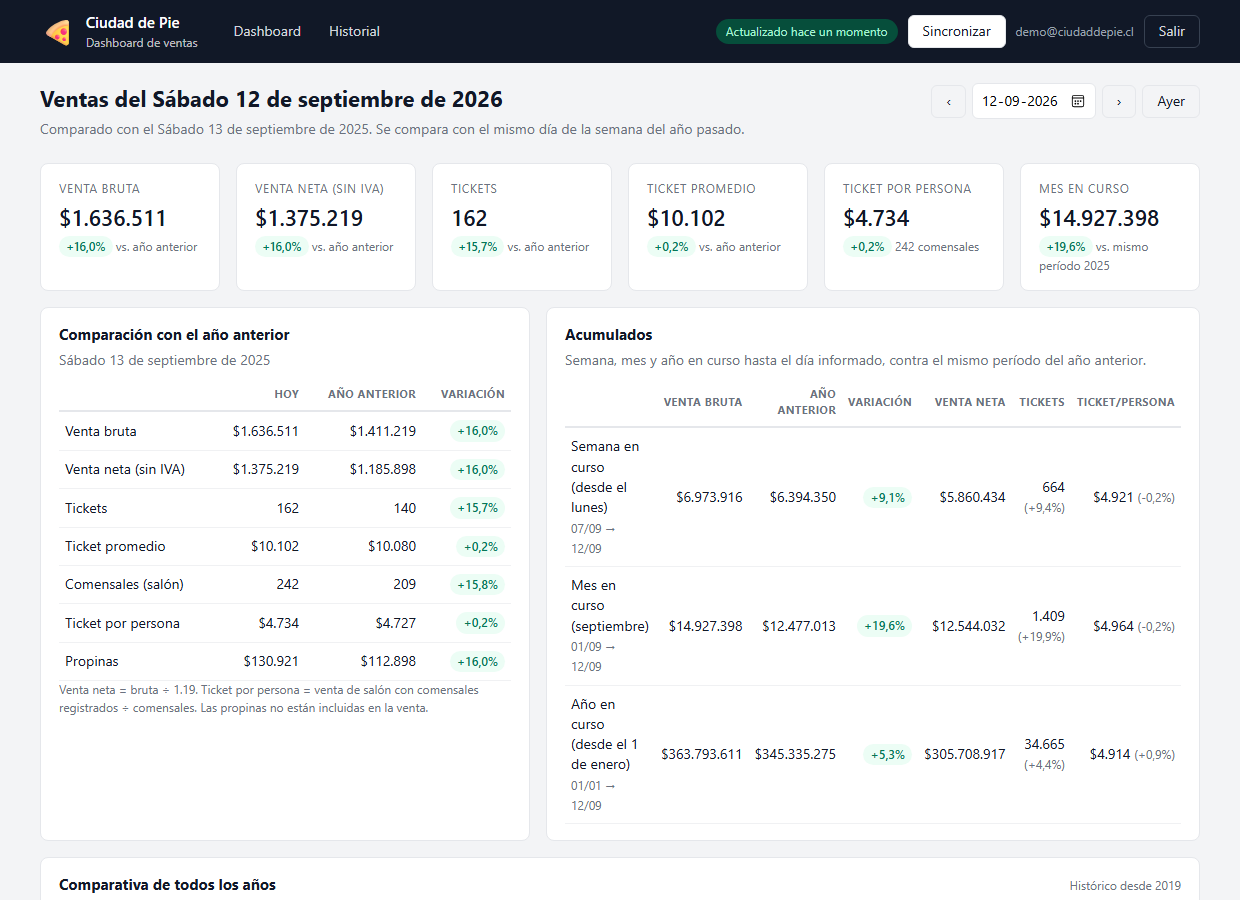
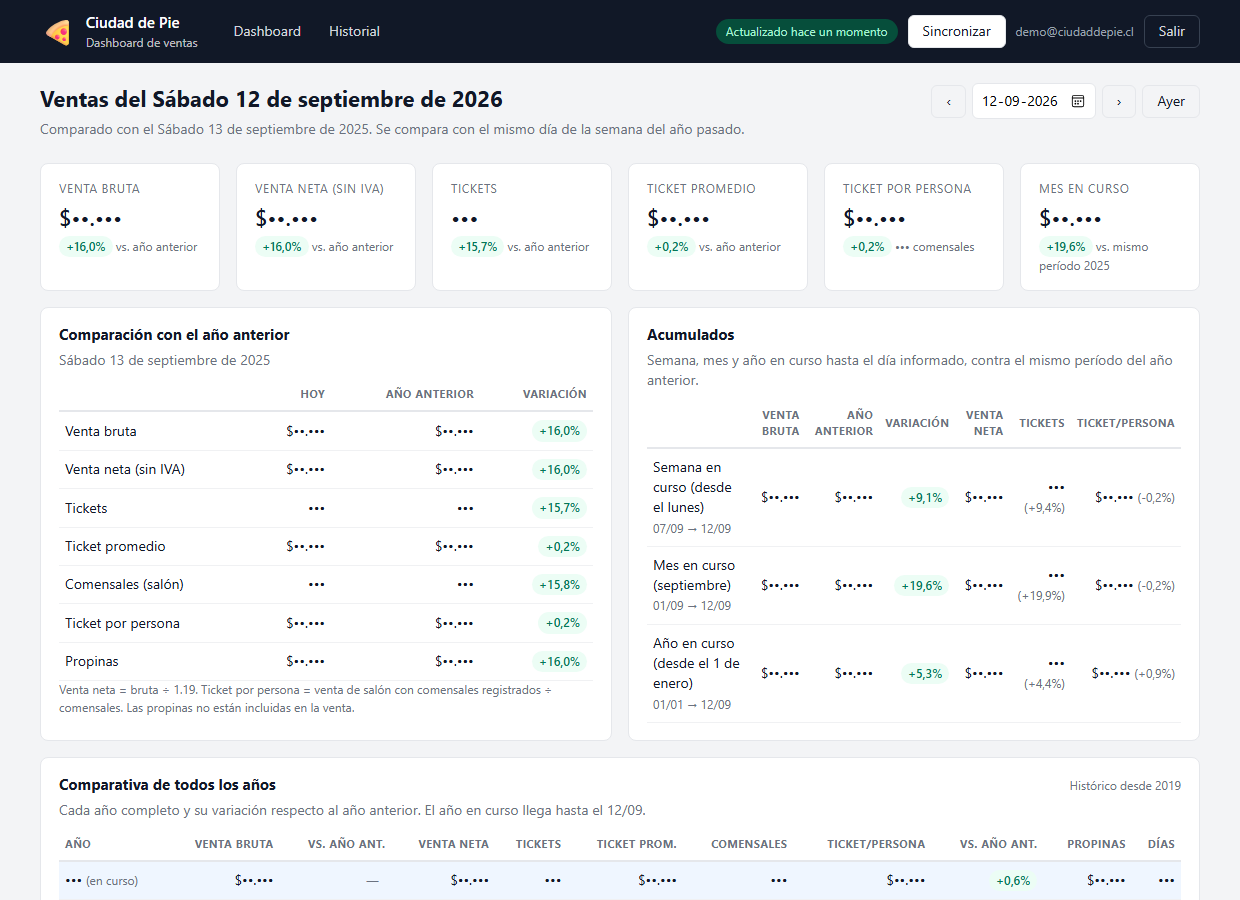
Captura del dashboard sin cifras, solo porcentajes

diff --git a/index.html b/index.html
@@ -85,7 +85,7 @@
       <article class="proyecto">
         <a class="captura" href="https://github.com/Mikele1115/fudo-dashboard">
           <img src="img/dashboard-ventas.png"
-               alt="Dashboard de ventas de un restaurante: venta bruta y neta, tickets, ticket por persona, y comparación con el mismo día del año anterior (captura con datos ficticios)"
+               alt="Dashboard de ventas de un restaurante: venta bruta y neta, tickets, ticket por persona, y comparación con el mismo día del año anterior (captura con datos ficticios y cifras ocultas)"
                width="1240" height="900" loading="lazy">
         </a>
         <div class="detalle">
